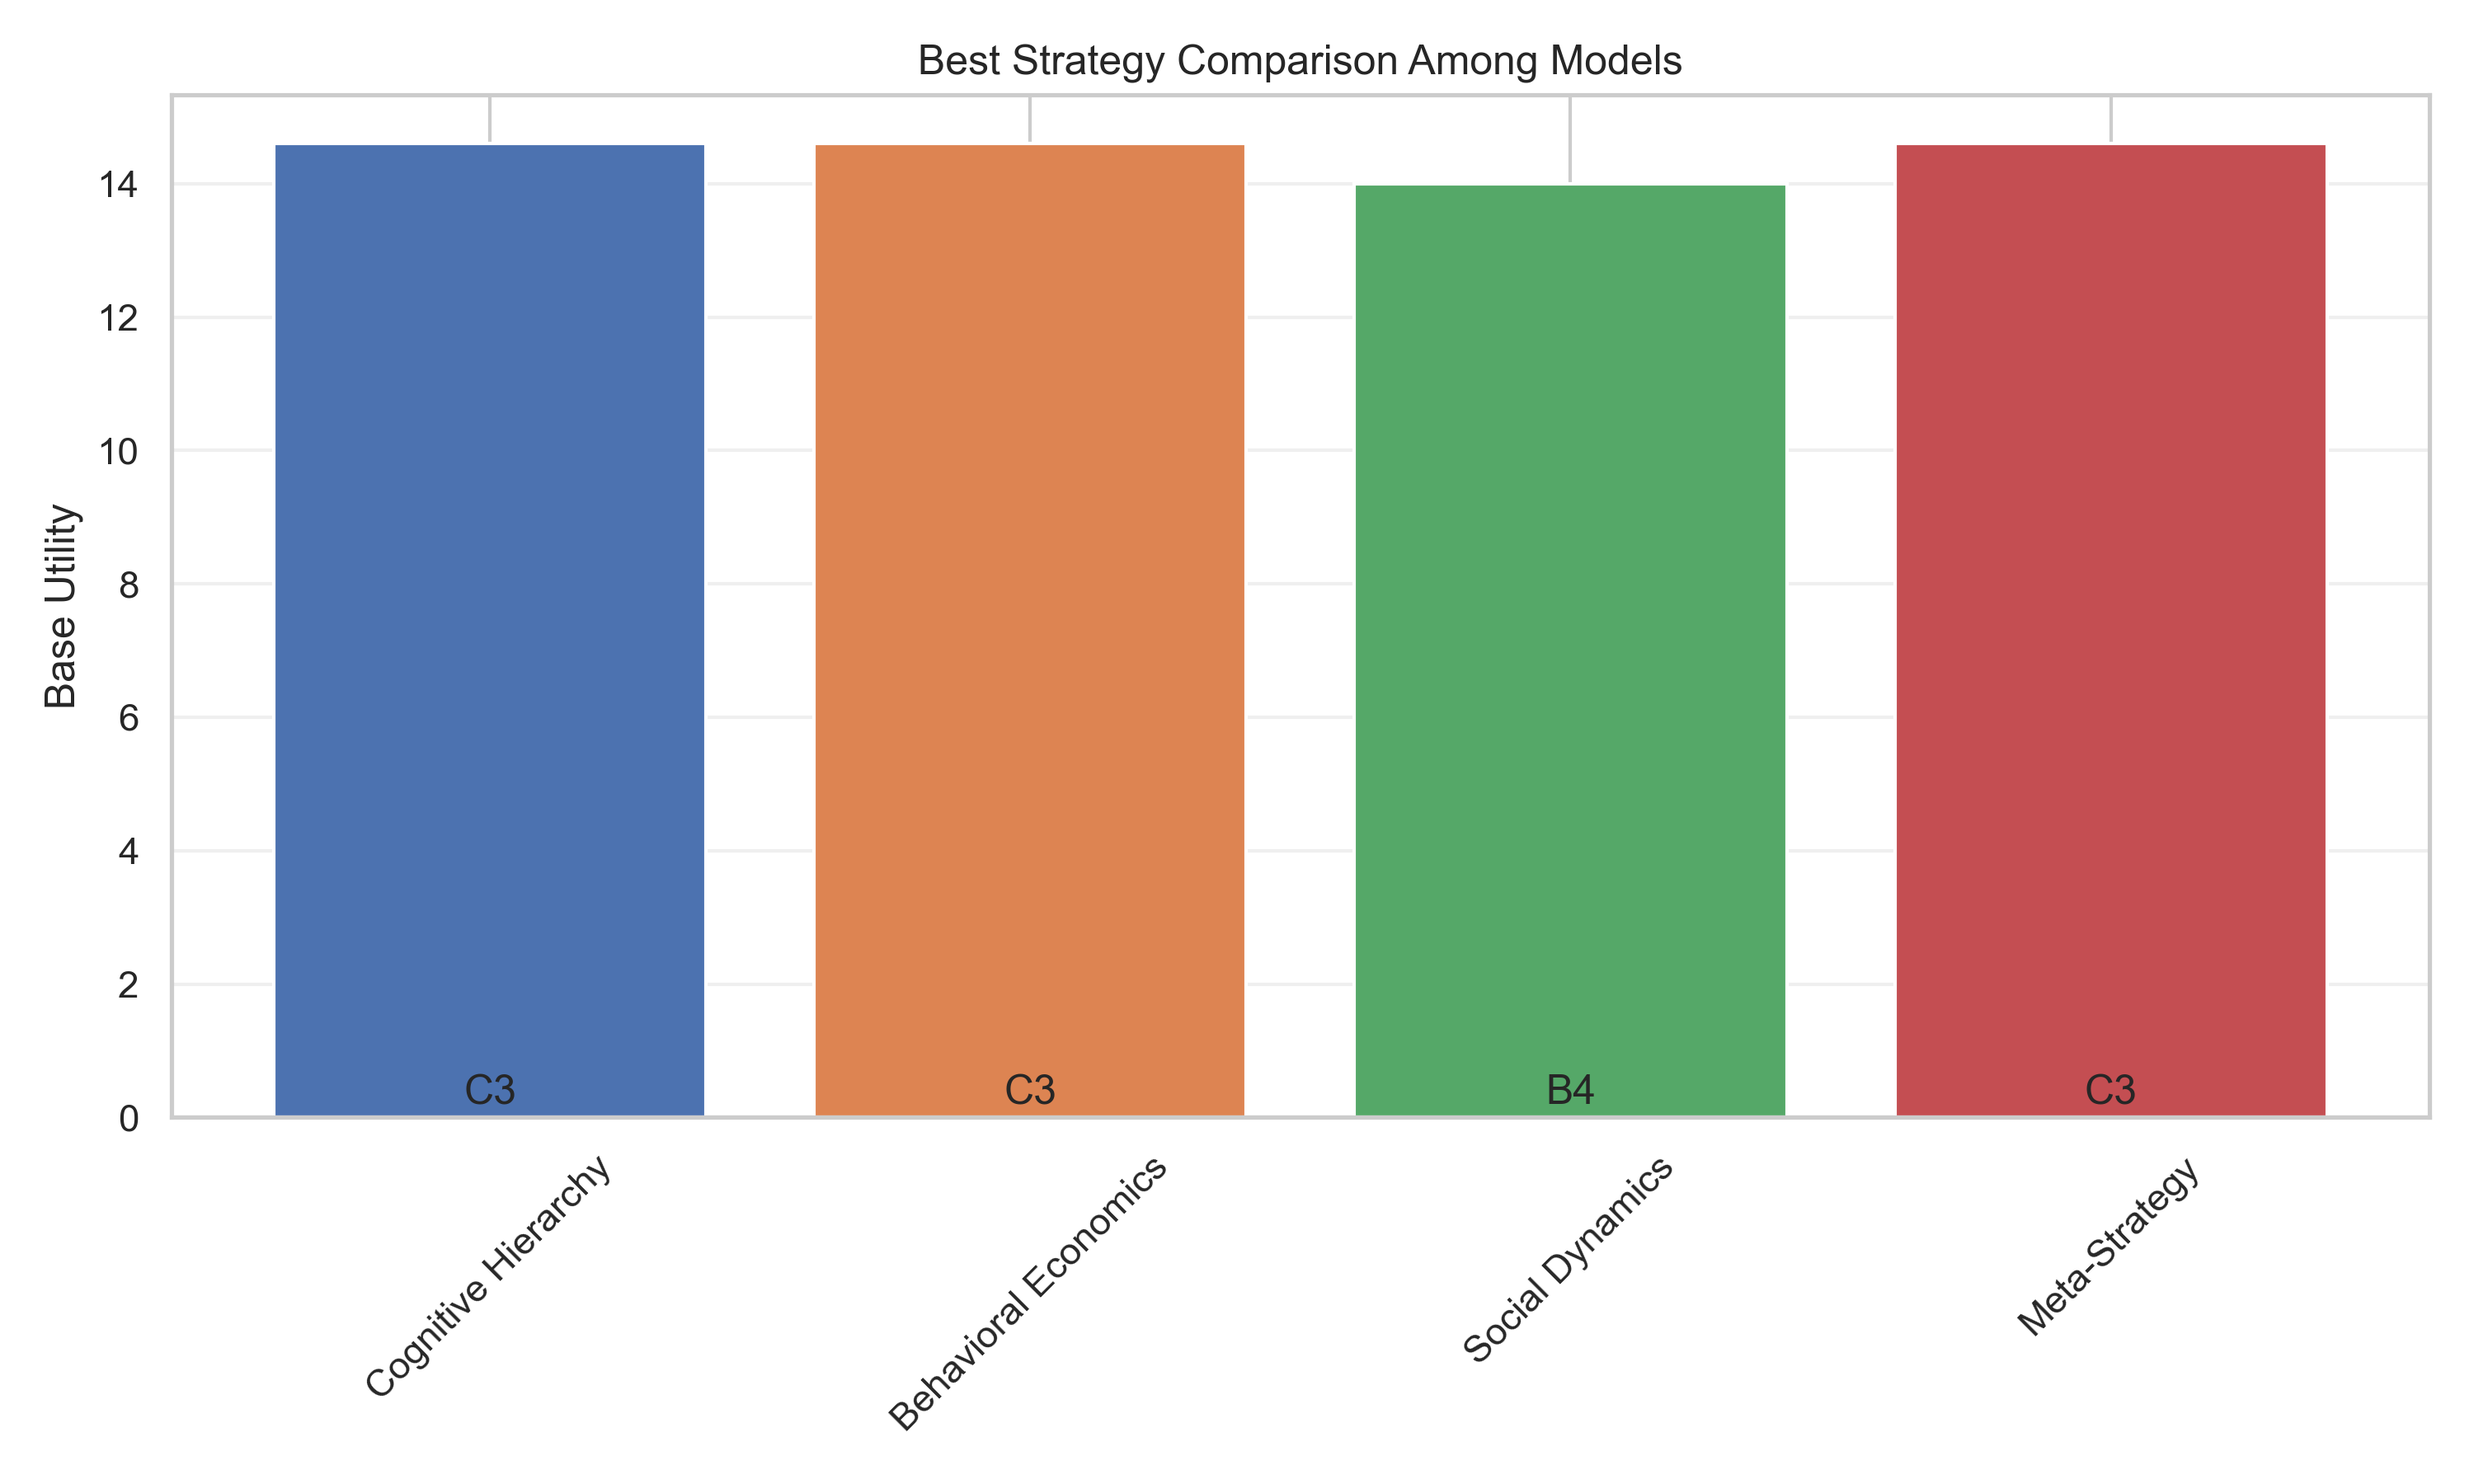
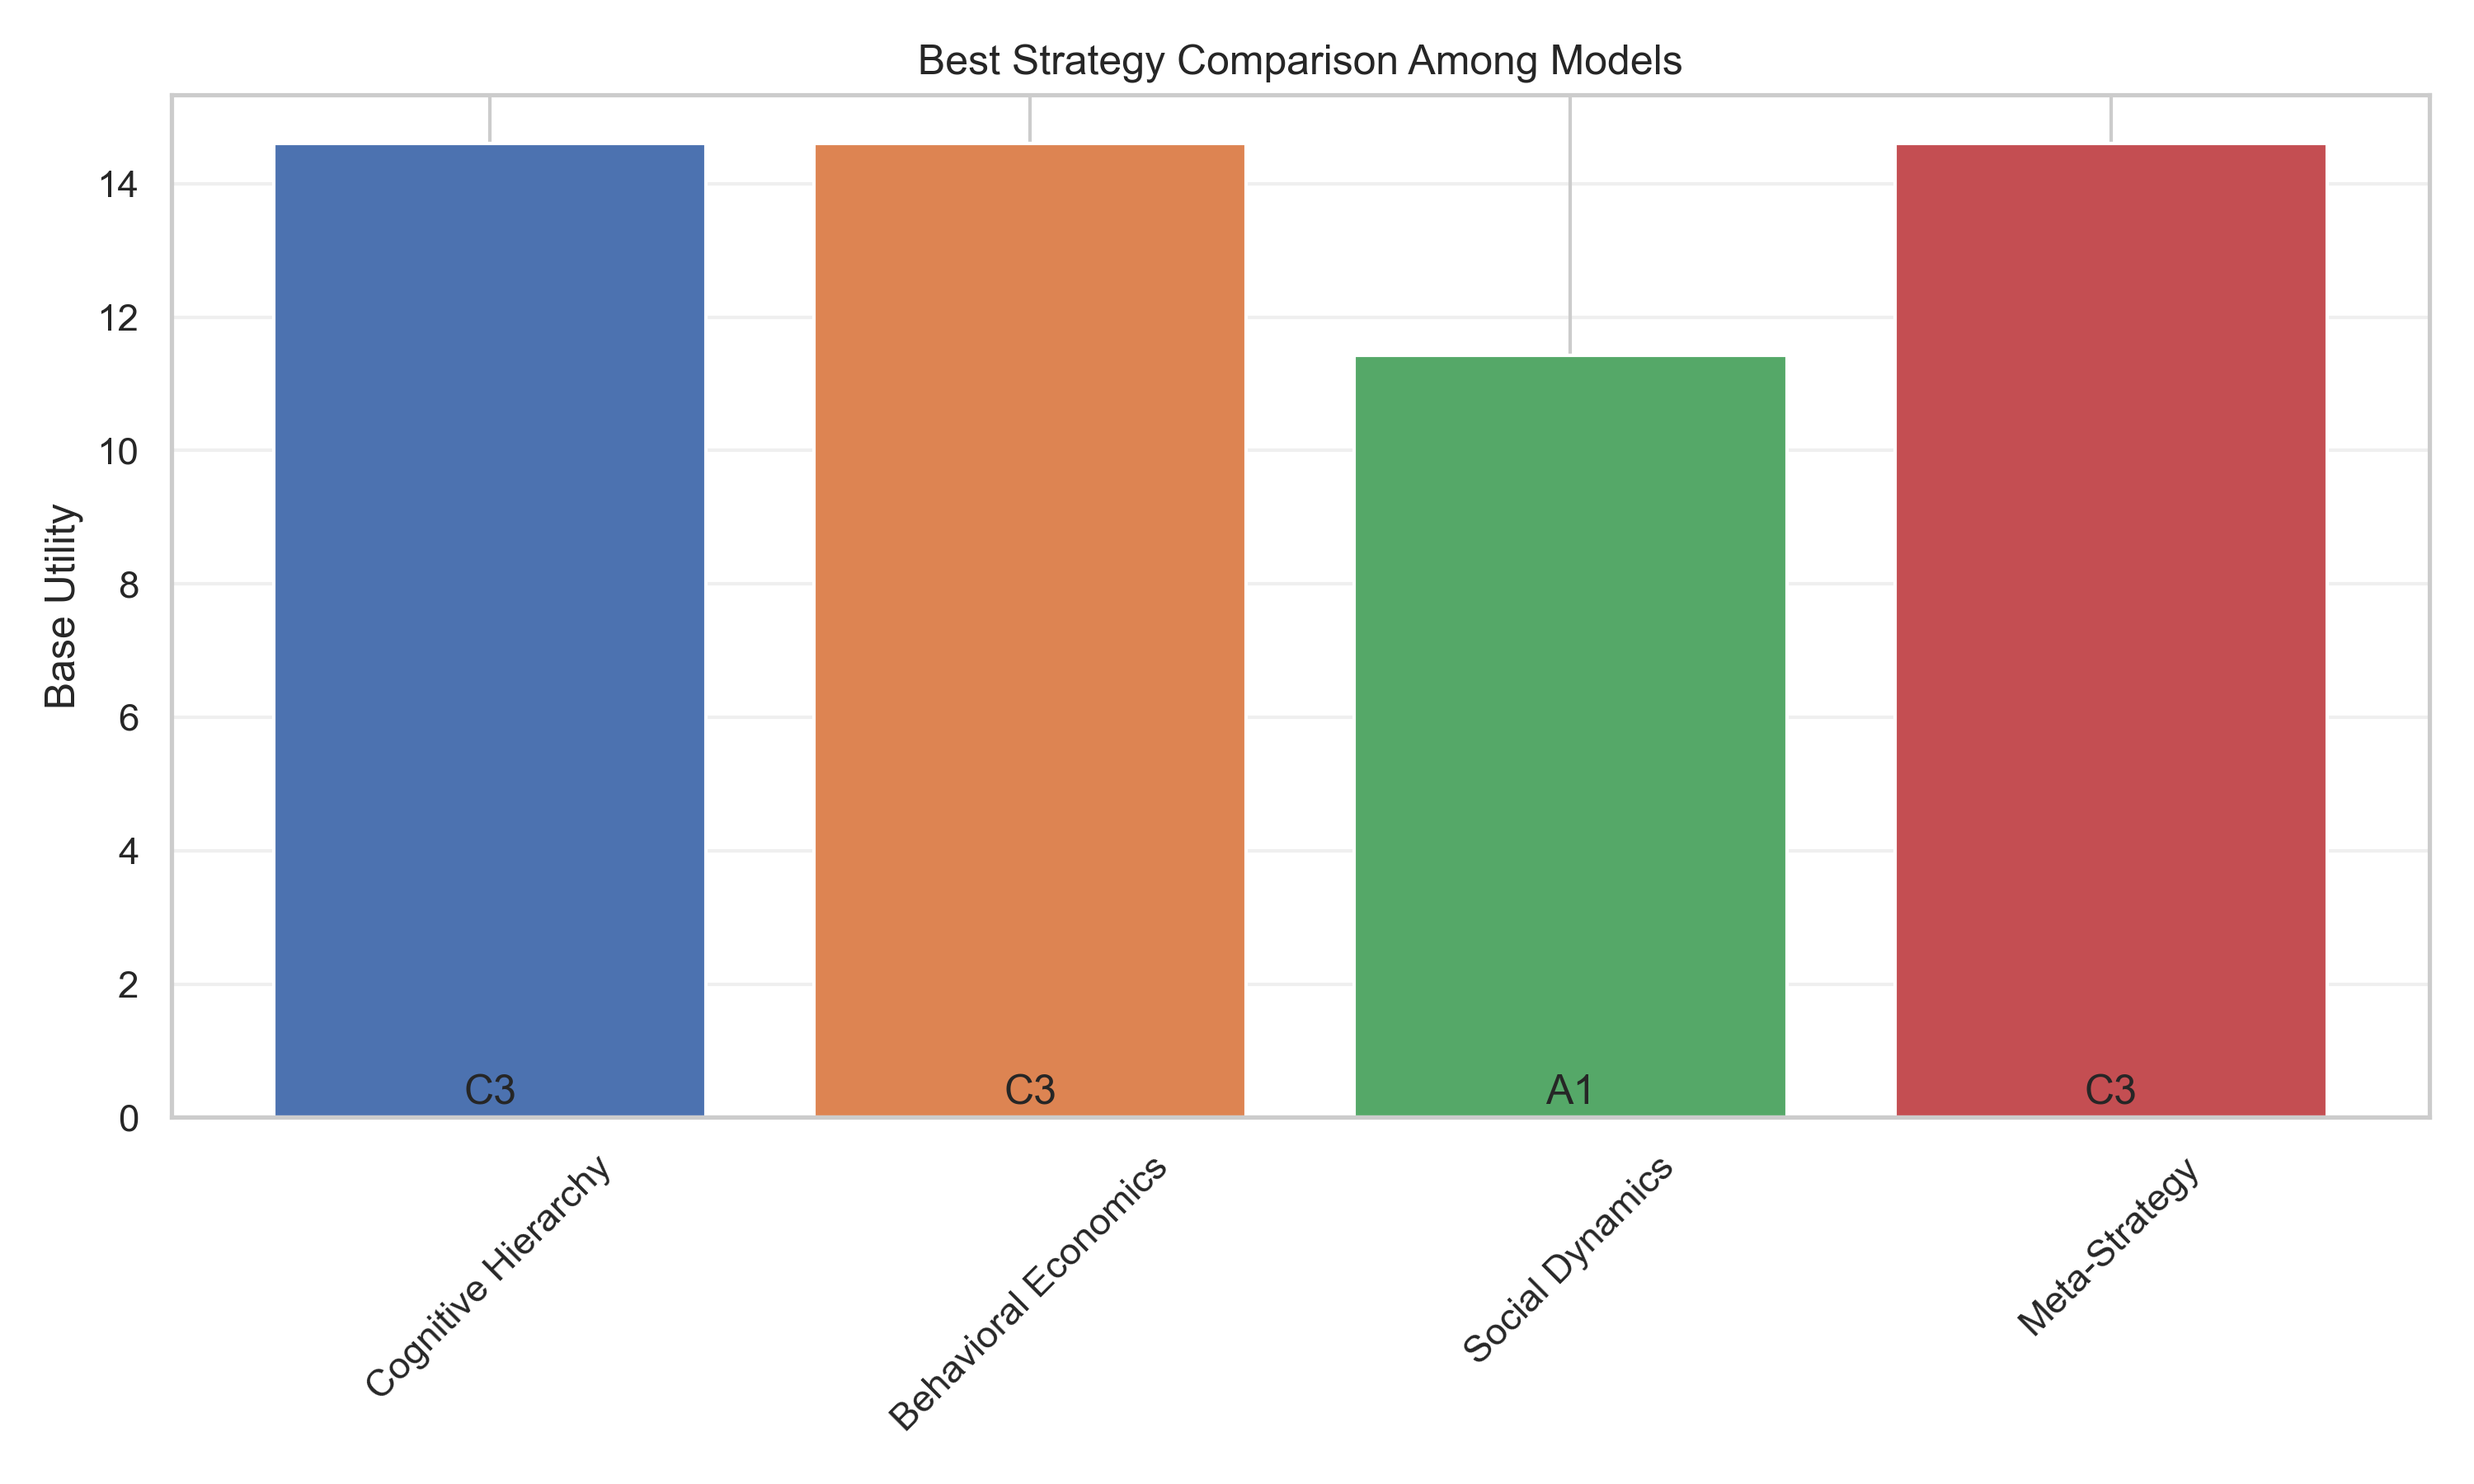
Updated charts in report

Changed region(s): [[0.527, 0.1244, 0.744, 0.2489], [0.62, 0.7156, 0.651, 0.7467]]

diff --git a/advanced_treasure_analysis.py b/advanced_treasure_analysis.py
@@ -437,21 +437,21 @@ def run_advanced_analysis(output_dir: str,
     with open(report_path, 'a') as f:
         f.write("\n\n## 可视化图表\n\n")
         f.write("### 认知层次模型分布\n")
-        f.write("![认知层次模型分布](cognitive_distribution.png)\n\n")
+        f.write("![Cognitive Hierarchy Model Strategy Distribution](cognitive_distribution.png)\n\n")
         f.write("### 行为经济学模型权重\n")
-        f.write("![行为经济学模型权重](behavioral_weights.png)\n\n")
+        f.write("![Behavioral Economics Model Strategy Weights](behavioral_weights.png)\n\n")
         f.write("### 社会动态模型最终分布\n")
-        f.write("![社会动态模型最终分布](social_distribution.png)\n\n")
+        f.write("![Social Dynamics Model Final Distribution](social_distribution.png)\n\n")
         f.write("### 收益矩阵热图\n")
-        f.write("![收益矩阵热图](payoff_matrix.png)\n\n")
+        f.write("![Payoff Matrix Heatmap](payoff_matrix.png)\n\n")
         f.write("### 社会动态演化过程\n")
-        f.write("![社会动态演化过程](social_dynamics_evolution.png)\n\n")
+        f.write("![Social Dynamics Strategy Evolution](social_dynamics_evolution.png)\n\n")
         f.write("### 各模型最佳策略比较\n")
-        f.write("![各模型最佳策略比较](model_comparison.png)\n\n")
+        f.write("![Best Strategy Comparison Among Models](model_comparison.png)\n\n")
         f.write("### 不同策略预期收益比较\n")
-        f.write("![不同策略预期收益比较](strategy_profit_comparison.png)\n\n")
+        f.write("![Expected Net Profit Comparison Among Different Strategies](strategy_profit_comparison.png)\n\n")
         f.write("### 宝箱预估选择分布\n")
-        f.write("![宝箱预估选择分布](estimated_selection.png)\n\n")
+        f.write("![Treasure Estimated Selection Distribution](estimated_selection.png)\n\n")
     
     print(f"\nAnalysis completed! Report and visualization charts have been saved to {output_dir}")
     

diff --git a/output/advanced_analysis/advanced_strategy_report.md b/output/advanced_analysis/advanced_strategy_report.md
@@ -31,7 +31,7 @@
 ### 模型一致性
 - 认知层次模型: 宝箱C3
 - 行为经济学模型: 宝箱C3
-- 社会动态模型: 宝箱B4
+- 社会动态模型: 宝箱A1
 - 元策略模型: 宝箱C3
 
 模型一致性评估: 部分一致 (75%)
@@ -47,26 +47,26 @@
 ## 可视化图表
 
 ### 认知层次模型分布
-![认知层次模型分布](cognitive_distribution.png)
+![Cognitive Hierarchy Model Strategy Distribution](cognitive_distribution.png)
 
 ### 行为经济学模型权重
-![行为经济学模型权重](behavioral_weights.png)
+![Behavioral Economics Model Strategy Weights](behavioral_weights.png)
 
 ### 社会动态模型最终分布
-![社会动态模型最终分布](social_distribution.png)
+![Social Dynamics Model Final Distribution](social_distribution.png)
 
 ### 收益矩阵热图
-![收益矩阵热图](payoff_matrix.png)
+![Payoff Matrix Heatmap](payoff_matrix.png)
 
 ### 社会动态演化过程
-![社会动态演化过程](social_dynamics_evolution.png)
+![Social Dynamics Strategy Evolution](social_dynamics_evolution.png)
 
 ### 各模型最佳策略比较
-![各模型最佳策略比较](model_comparison.png)
+![Best Strategy Comparison Among Models](model_comparison.png)
 
 ### 不同策略预期收益比较
-![不同策略预期收益比较](strategy_profit_comparison.png)
+![Expected Net Profit Comparison Among Different Strategies](strategy_profit_comparison.png)
 
 ### 宝箱预估选择分布
-![宝箱预估选择分布](estimated_selection.png)
+![Treasure Estimated Selection Distribution](estimated_selection.png)
 
